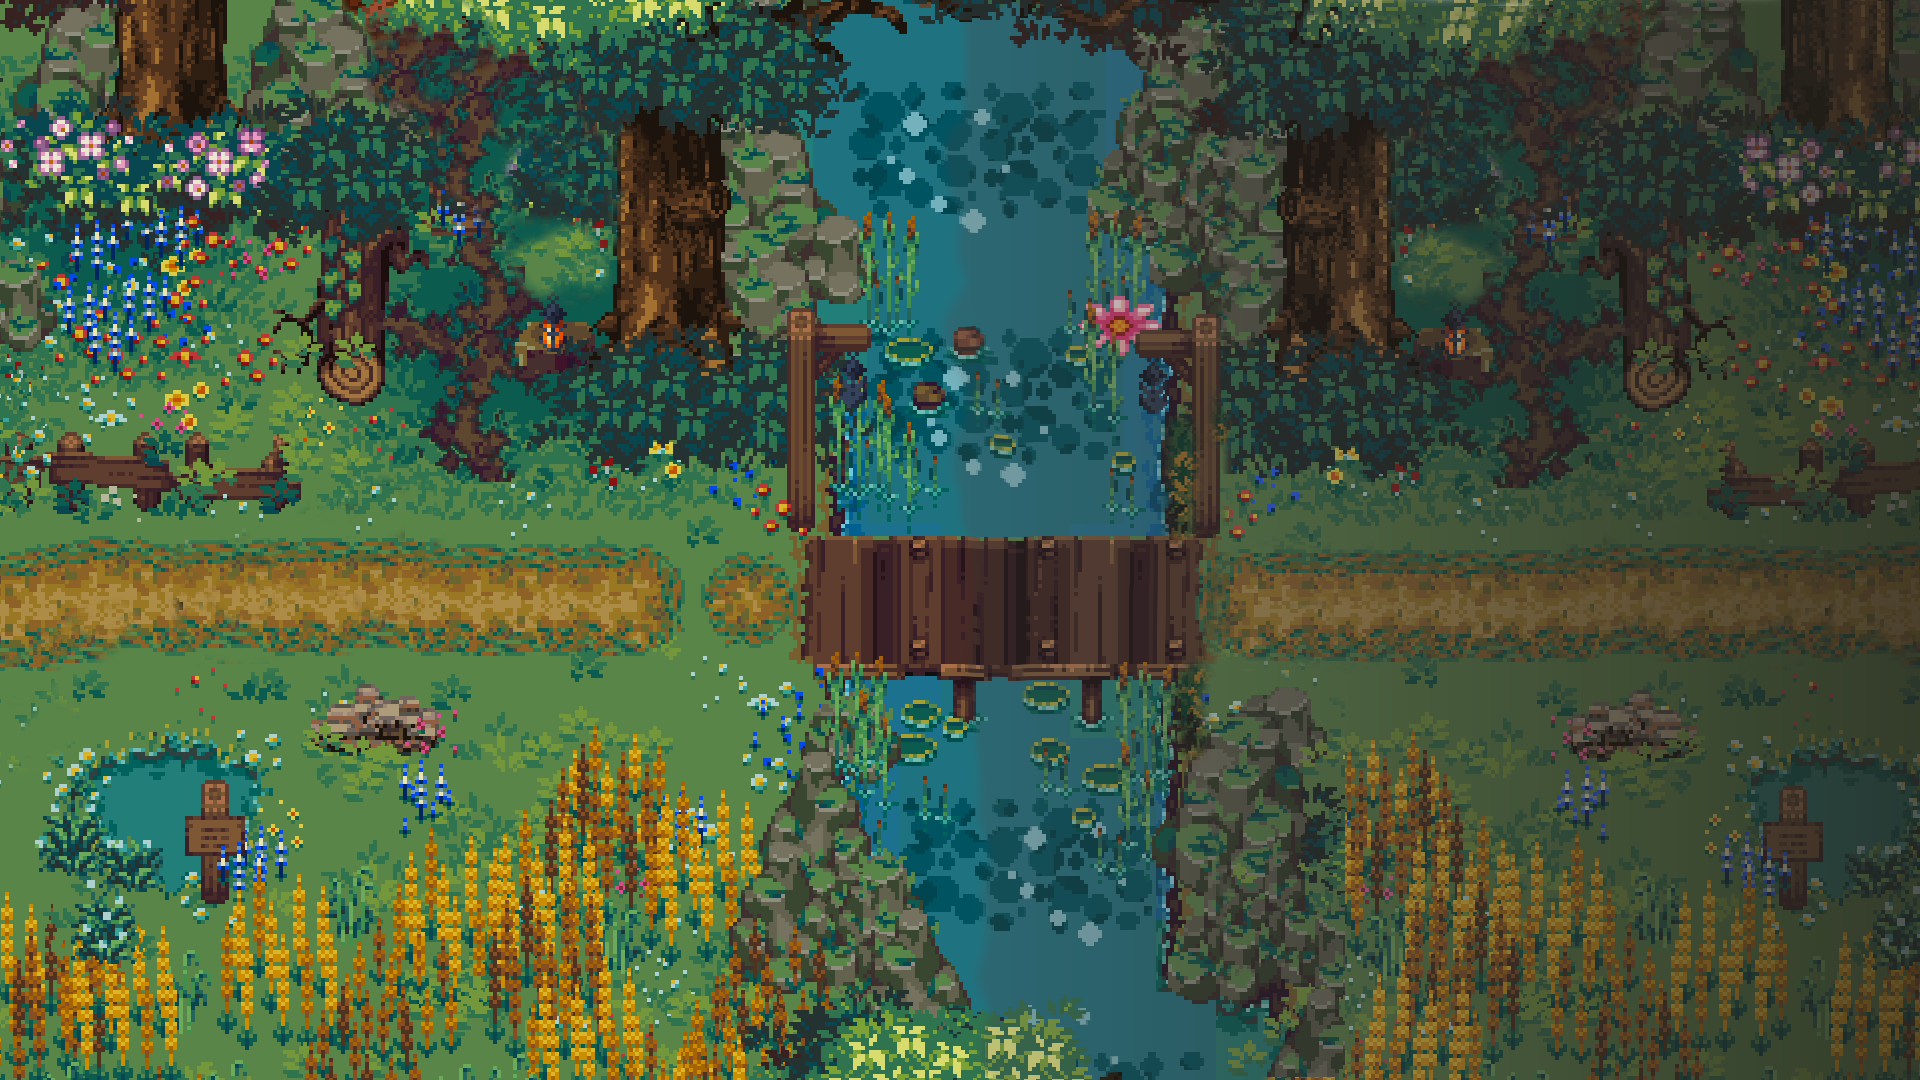
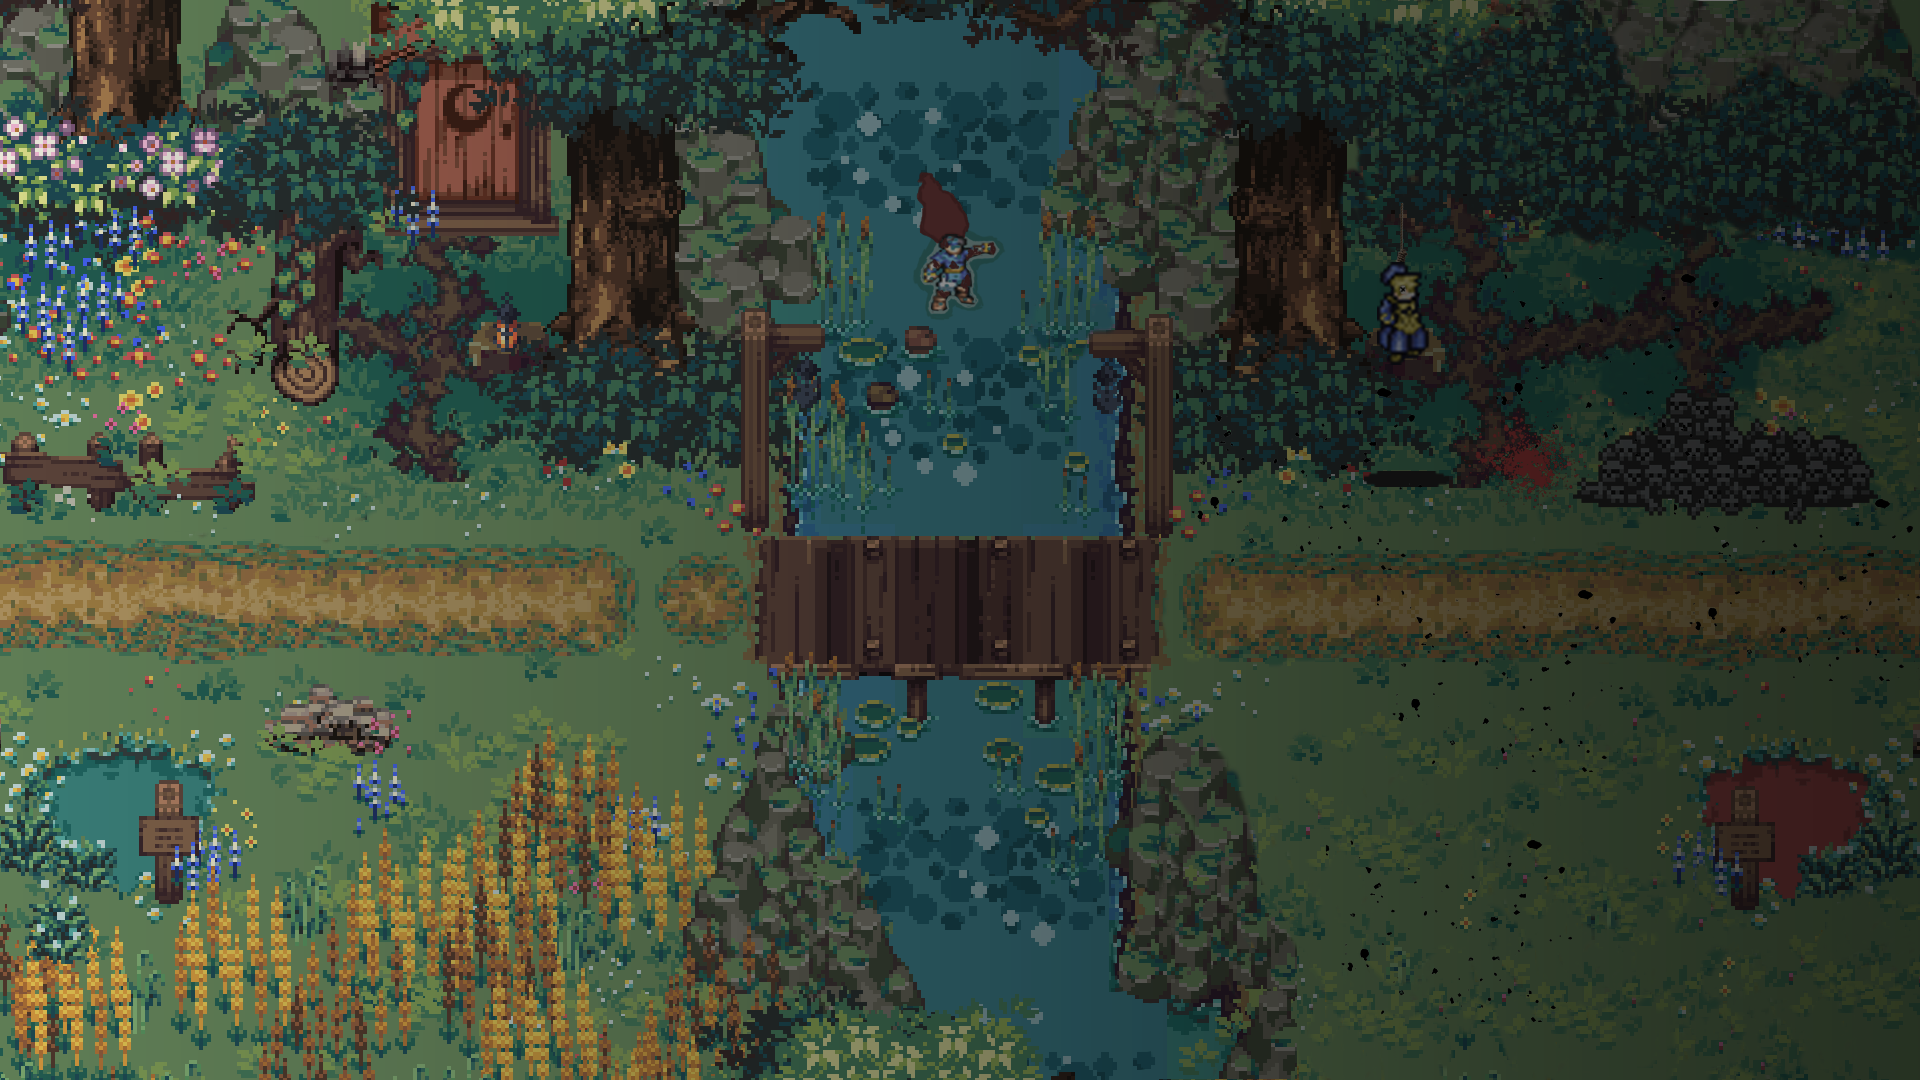
end: MapTransition5

diff --git a/Drakhtar/Structures/Game.cpp b/Drakhtar/Structures/Game.cpp
@@ -252,7 +252,7 @@ void Game::load() {
   ->addAnimation("default", {0, 1, 2, 3}, 1);
   textures->add("Transition-Map4", "../images/Transition/Transition_4.png",
                 4, 1);
-  textures->add("Transition-Map5", "../images/Transition/GuerrillaSpecial.png",
+  textures->add("Transition-Map5", "../images/Transition/Transition_5.png",
                 1, 1);
   textures->add("Transition-Menu", "../images/Transition/Transition_1.png", 4,
                 1);
